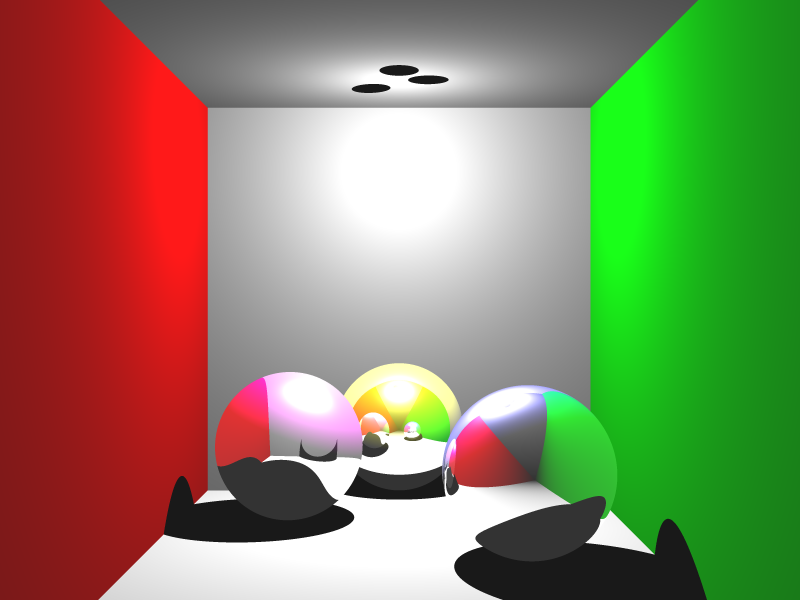
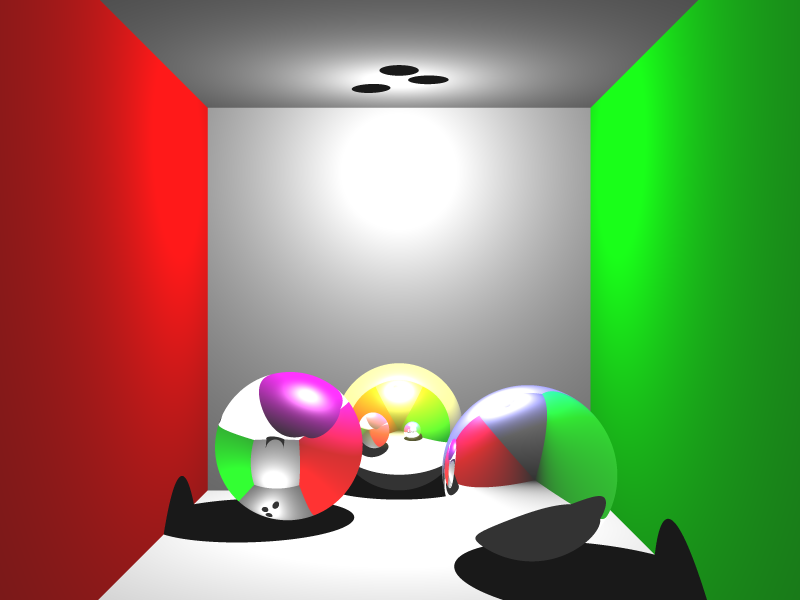
Minor changes on refraction

Changed region(s): [[0.25, 0.6, 0.5, 0.87], [0.5312, 0.72, 0.5938, 0.81]]

diff --git a/VCG_Raytracer/src/raytracer/Intersection.java b/VCG_Raytracer/src/raytracer/Intersection.java
@@ -46,7 +46,8 @@ public class Intersection {
     }
 
     public Ray calculateRefractionRay() {
-        float angle = mNormal.scalar(mInRay.getDirection().negate());
+        Vec3 inRay = mInRay.getDirection().negate();
+        float angle = mNormal.scalar(inRay);
         float n;
 
         if (angle > 0.0f) {
@@ -58,12 +59,12 @@ public class Intersection {
         float k = (float) Math.sqrt(1.0f - n * n * (1.0f - angle * angle));
 
         if (k < 0.0f) { // Total internal reflection
-            return calculateReflectionRay(mInRay.getDirection().negate());
+            return calculateReflectionRay( mInRay.getDirection());
         }
 
-        Vec3 temp_a = (mNormal.multScalar(n * angle - k));
-        Vec3 temp_b = mInRay.getDirection().multScalar(n);
-        return new Ray(mIntersectionPoint, temp_b.sub(temp_a), Float.MAX_VALUE);
+        Vec3 temp_a = mNormal.multScalar( n * angle - k );
+        Vec3 temp_b =  mInRay.getDirection().multScalar( n );
+        return new Ray(mIntersectionPoint, temp_a.sub( temp_b ), Float.MAX_VALUE);
     }
 
     public void setHit(boolean mHit) {
@@ -89,6 +90,7 @@ public class Intersection {
     public boolean isOutOfDistance() {
         return mOutOfDistance;
     }
+
     public void setIncoming(boolean mIncoming) {
         this.mIncoming = mIncoming;
     }
